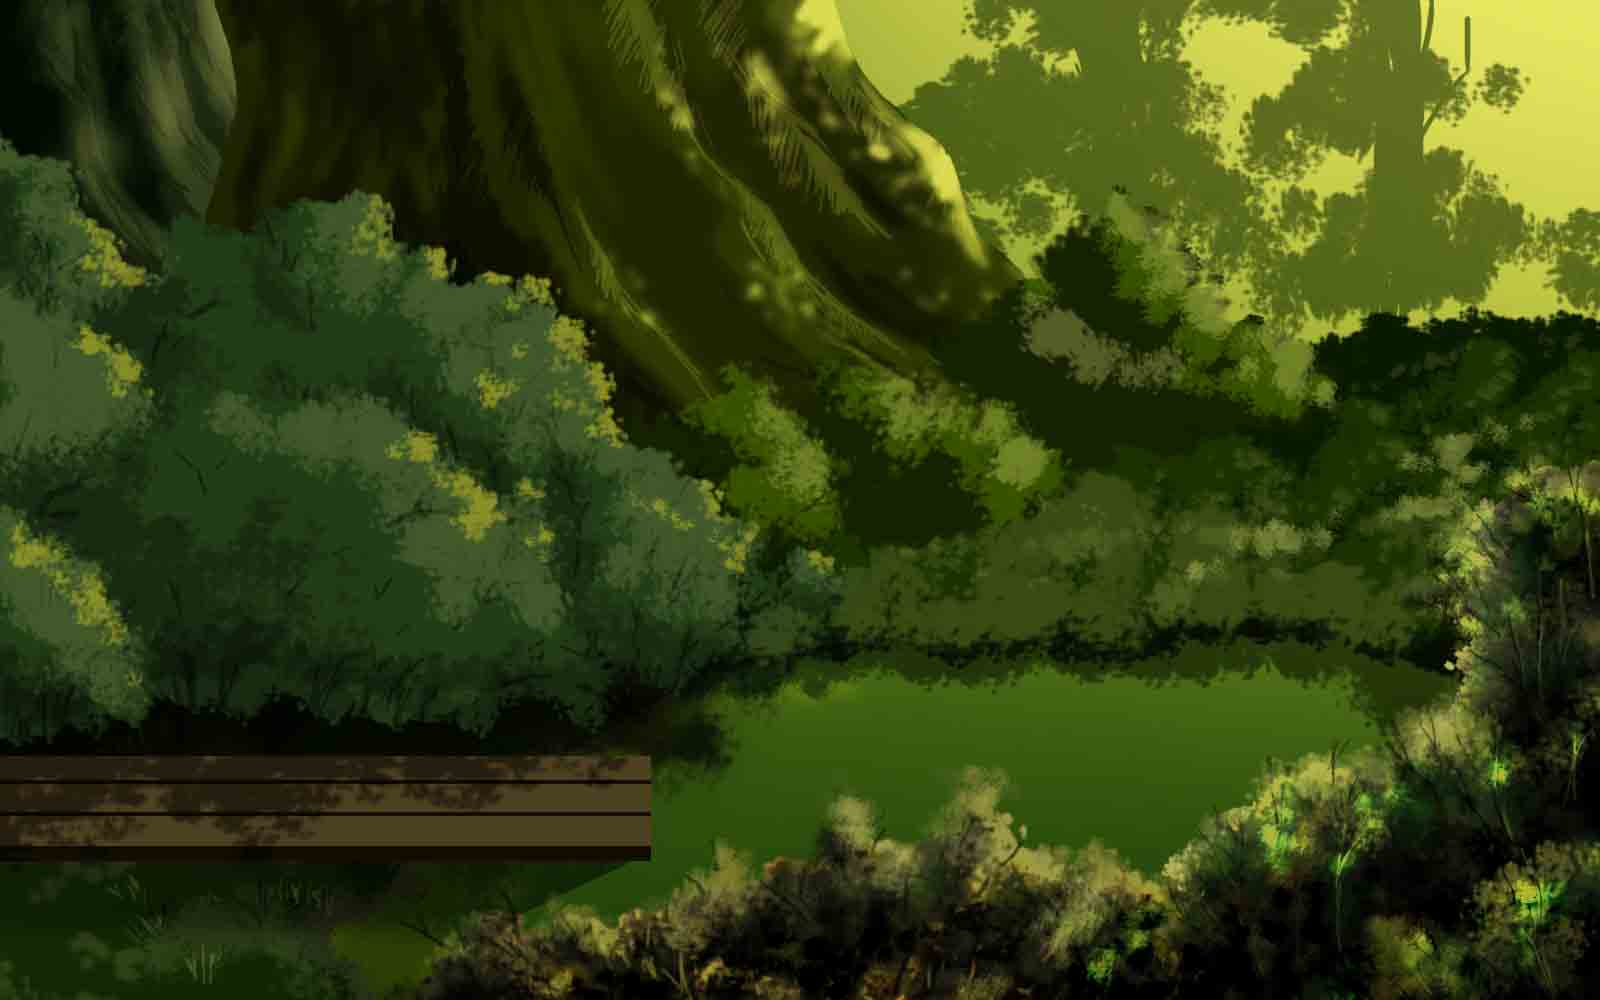
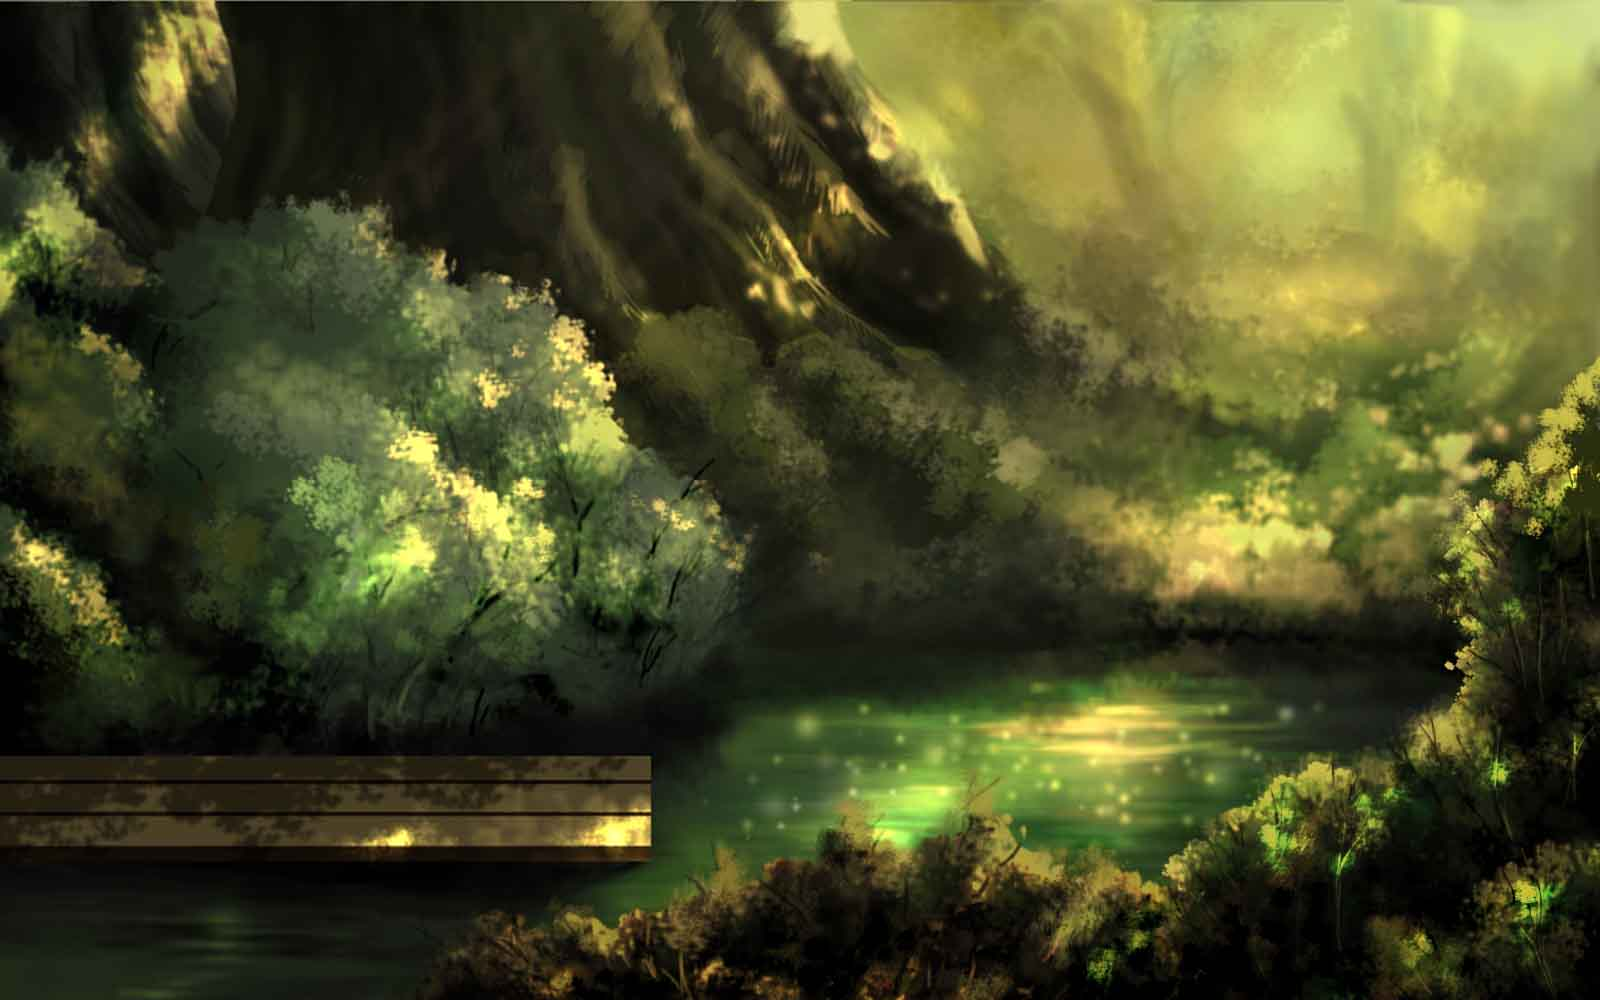
fishing BG modify

diff --git a/javascript/math_game/js/state3.js b/javascript/math_game/js/state3.js
@@ -78,20 +78,12 @@ demo.state3.prototype = {
 
 
         game.add.sprite(0,0,'BG');
-        sunlight1 = game.add.sprite(0,0,'fishingpage_sheet003','sunlight1.png');
+        sunlight1 = game.add.sprite(200,0,'fishingpage_sheet003','sunlight1.png');
         sunlight2 = game.add.sprite(0,0,'fishingpage_sheet003','sunlight2.png');
         game.add.tween(sunlight1).to({alpha:0.2},1000,'Quad.easeInOut',true,0,false,true).loop(true); 
         game.add.tween(sunlight2).to({alpha:0.2},1000,'Quad.easeInOut',true,1000,false,true).loop(true); 
         
-        yellowatmosphere = game.add.sprite(0,0,'fishingpage_sheet004','yellowatmosphere.png');
-        game.add.tween(yellowatmosphere).to({alpha:0.7},1000,'Quad.easeInOut',true,0,false,true).loop(true); 
 
-        whiteatmosphere = game.add.sprite(0,0,'fishingpage_sheet004','whiteatmosphere.png');
-        game.add.tween(whiteatmosphere).to({alpha:0.7},1000,'Quad.easeInOut',true,1000,false,true).loop(true); 
-
-        greenatmosphere = game.add.sprite(0,0,'fishingpage_sheet003','greenatmosphere.png');
-        game.add.tween(greenatmosphere).to({alpha:0.9},1000,'Quad.easeInOut',true,0,false,true).loop(true); 
-        
 
         //scorebar-----------------------------------------------------
         scorebarBG = game.add.sprite(scorebarX+10,110,'fishingpage_sheet002','scorebar_BG.png');
@@ -413,47 +405,7 @@ demo.state3.prototype = {
         question_mark1.anchor.setTo(0.5,0.5);   
         question_mark1.alpha = 0; 
                 
-        tutorial_number_2 = game.add.sprite(questionpositionX-150,questionpositionY,'fishingpage_sheet001','2_tutorial.png');    
-        tutorial_number_2.scale.setTo(0.8,0.8); 
-        tutorial_number_2.anchor.setTo(0.5,0.5);   
-        tutorial_number_2.alpha = 0; 
-        
-        tutorial_number_4 = game.add.sprite(questionpositionX+150,questionpositionY,'fishingpage_sheet001','4_tutorial.png');    
-        tutorial_number_4.scale.setTo(0.8,0.8); 
-        tutorial_number_4.anchor.setTo(0.5,0.5);   
-        tutorial_number_4.alpha = 0; 
-        
-        tutorial2_number_2 = game.add.sprite(questionpositionX-150,questionpositionY,'fishingpage_sheet001','2_tutorial.png');    
-        tutorial2_number_2.scale.setTo(0.8,0.8); 
-        tutorial2_number_2.anchor.setTo(0.5,0.5);   
-        tutorial2_number_2.alpha = 0;
-        
-        tutorial2_number_9 = game.add.sprite(questionpositionX,questionpositionY-150,'fishingpage_sheet001','9_tutorial.png');    
-        tutorial2_number_9.scale.setTo(0.8,0.8); 
-        tutorial2_number_9.anchor.setTo(0.5,0.5);   
-        tutorial2_number_9.alpha = 0;
-        
-        plus_tutorial = game.add.sprite(questionpositionX,questionpositionY,'fishingpage_sheet001','plus.png');    
-        plus_tutorial.scale.setTo(0.8,0.8); 
-        plus_tutorial.anchor.setTo(0.5,0.5);   
-        plus_tutorial.alpha = 0;
-        
-        minus_tutorial = game.add.sprite(questionpositionX-500,questionpositionY,'fishingpage_sheet001','minus.png');    
-        minus_tutorial.scale.setTo(0.4,0.4); 
-        minus_tutorial.anchor.setTo(0.5,0.5);   
-        minus_tutorial.alpha = 0;
-        
-        Qmark_tutorial = game.add.sprite(questionpositionX,questionpositionY-150,'fishingpage_sheet001','Qmark_tutorial.png');    
-        Qmark_tutorial.anchor.setTo(0.5,0.5);   
-        Qmark_tutorial.alpha = 0;    
-        
-        Qmark_tutorial2 = game.add.sprite(questionpositionX+150,questionpositionY,'fishingpage_sheet001','Qmark_tutorial.png');    
-        Qmark_tutorial2.anchor.setTo(0.5,0.5);   
-        Qmark_tutorial2.alpha = 0; 
-        
-        equal_mark_tutorial = game.add.sprite(questionpositionX-390,questionpositionY,'fishingpage_sheet001','equal_mark_tutorial.png');    
-        equal_mark_tutorial.anchor.setTo(0.5,0.5);   
-        equal_mark_tutorial.alpha = 0;
+
         
         //tutorial page
     
@@ -468,8 +420,48 @@ demo.state3.prototype = {
             mark_tutorial = game.add.button(foxpositionX+250, foxpositionY-150,'mark_tutorial',startfishing_tutorial);
             mark_tutorial.scale.setTo(0,0);
             mark_tutorial.anchor.setTo(0.5,0.5);
-        }else{
-            tween_continue_text.stop();
+            
+            tutorial_number_2 = game.add.sprite(questionpositionX-150,questionpositionY,'fishingpage_sheet001','2_tutorial.png');    
+            tutorial_number_2.scale.setTo(0.8,0.8); 
+            tutorial_number_2.anchor.setTo(0.5,0.5);   
+            tutorial_number_2.alpha = 0; 
+        
+            tutorial_number_4 = game.add.sprite(questionpositionX+150,questionpositionY,'fishingpage_sheet001','4_tutorial.png');    
+            tutorial_number_4.scale.setTo(0.8,0.8); 
+            tutorial_number_4.anchor.setTo(0.5,0.5);   
+            tutorial_number_4.alpha = 0; 
+        
+            tutorial2_number_2 = game.add.sprite(questionpositionX-150,questionpositionY,'fishingpage_sheet001','2_tutorial.png');    
+            tutorial2_number_2.scale.setTo(0.8,0.8); 
+            tutorial2_number_2.anchor.setTo(0.5,0.5);   
+            tutorial2_number_2.alpha = 0;
+        
+            tutorial2_number_9 = game.add.sprite(questionpositionX,questionpositionY-150,'fishingpage_sheet001','9_tutorial.png');    
+            tutorial2_number_9.scale.setTo(0.8,0.8); 
+            tutorial2_number_9.anchor.setTo(0.5,0.5);   
+            tutorial2_number_9.alpha = 0;
+        
+            plus_tutorial = game.add.sprite(questionpositionX,questionpositionY,'fishingpage_sheet001','plus.png');    
+            plus_tutorial.scale.setTo(0.8,0.8); 
+            plus_tutorial.anchor.setTo(0.5,0.5);   
+            plus_tutorial.alpha = 0;
+        
+            minus_tutorial = game.add.sprite(questionpositionX-500,questionpositionY,'fishingpage_sheet001','minus.png');    
+            minus_tutorial.scale.setTo(0.4,0.4); 
+            minus_tutorial.anchor.setTo(0.5,0.5);   
+            minus_tutorial.alpha = 0;
+        
+            Qmark_tutorial = game.add.sprite(questionpositionX,questionpositionY-150,'fishingpage_sheet001','Qmark_tutorial.png');    
+            Qmark_tutorial.anchor.setTo(0.5,0.5);   
+            Qmark_tutorial.alpha = 0;    
+        
+            Qmark_tutorial2 = game.add.sprite(questionpositionX+150,questionpositionY,'fishingpage_sheet001','Qmark_tutorial.png');    
+            Qmark_tutorial2.anchor.setTo(0.5,0.5);   
+            Qmark_tutorial2.alpha = 0; 
+        
+            equal_mark_tutorial = game.add.sprite(questionpositionX-390,questionpositionY,'fishingpage_sheet001','equal_mark_tutorial.png');    
+            equal_mark_tutorial.anchor.setTo(0.5,0.5);   
+            equal_mark_tutorial.alpha = 0;
         }
 
 
@@ -531,6 +523,8 @@ demo.state3.prototype = {
         alertFX = game.add.audio('alertFX');
         fishingBG = game.add.audio('fishingBG');
         fishingBG.loopFull(1);
+        
+        console.log("game.tweens getALL:"+ game.tweens.getAll());
     },   
             
     update: function() {
@@ -594,7 +588,11 @@ demo.state3.prototype = {
 
     },
     shutdown: function(){
+        console.log("game.tweens getALL:"+ game.tweens.getAll());
+        //game.tweens.removeAll();
+        //console.log("game.tweens getALL after: "+ game.tweens.getAll());
         
+        this.rightFX = 'null';
     },
     render: function(){
         //game.debug.text(game.time.fps || '--', 10, 20, "#ffffff");   
@@ -763,7 +761,7 @@ var blackBG_close_fishing_tween;
 function backhome(){
     blackBG_close_fishing_tween = game.add.tween(blackBG_close_fishing).to({alpha:1},1000,'Quad.easeIn',true); 
     blackBG_close_fishing_tween.onComplete.add(function () {
-        //game.state.clearCurrentState();
+
         game.state.start('state8',true,true);
       }, this);
     

diff --git a/javascript/math_game/js/loadingpage.js b/javascript/math_game/js/loadingpage.js
@@ -4,12 +4,12 @@ demo.loadingpage.prototype = {
        
         this.fox_logo = this.add.sprite(centerX,centerY,'fox_logo');
         this.fox_logo.anchor.setTo(0.5);
-        game.add.tween(this.fox_logo).to({alpha:0.3},800,'Quad.easeInOut',true,0,false,true).loop(true); 
+        fox_logo_tween = game.add.tween(this.fox_logo).to({alpha:0.3},800,'Quad.easeInOut',true,0,false,true).loop(true); 
                 
         game.load.atlas('fishingpage_sheet001', 'javascript/math_game/assets/fishingpage/fishingpage_atlas001.png', 'javascript/math_game/assets/fishingpage/fishingpage_atlas001.json');
         game.load.atlas('fishingpage_sheet002', 'javascript/math_game/assets/fishingpage/fishingpage_atlas002.png', 'javascript/math_game/assets/fishingpage/fishingpage_atlas002.json');
         game.load.atlas('fishingpage_sheet003', 'javascript/math_game/assets/fishingpage/fishingpage_atlas003.png', 'javascript/math_game/assets/fishingpage/fishingpage_atlas003.json');
-        game.load.atlas('fishingpage_sheet004', 'javascript/math_game/assets/fishingpage/fishingpage_atlas004.png', 'javascript/math_game/assets/fishingpage/fishingpage_atlas004.json');
+       
         game.load.atlas('fishingpage_sheet005', 'javascript/math_game/assets/fishingpage/fishingpage_atlas005.png', 'javascript/math_game/assets/fishingpage/fishingpage_atlas005.json');
         game.load.atlas('get_stone_fish_atlas', 'javascript/math_game/assets/fishingpage/get_stone_fish_atlas.png', 'javascript/math_game/assets/fishingpage/get_stone_fish_atlas.json');
 
@@ -43,8 +43,11 @@ demo.loadingpage.prototype = {
     },
 
     create: function() {
-
         game.state.start('state3');
+    },
+    shutdown: function(){
+        this.fox_logo = null; 
+        this.tweens.removeAll();
     }
 
     

diff --git a/javascript/math_game/js/state8.js b/javascript/math_game/js/state8.js
@@ -94,6 +94,7 @@ function gofishing(){
         sunlight2_tween.pause();
         game_menu_music.stop();
         game.state.start('state2',true,true);
+
       }, this);
         
 }
